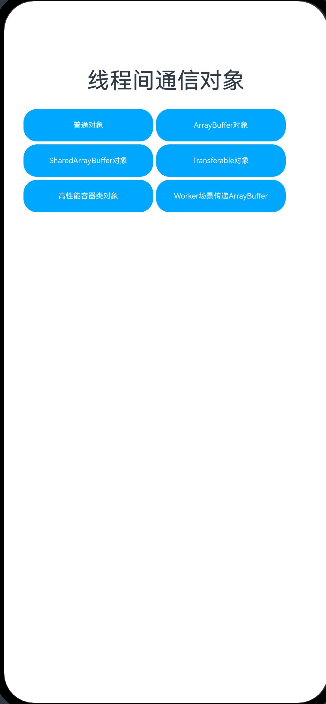
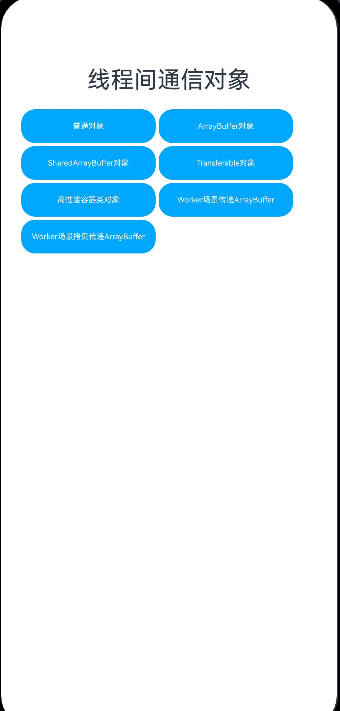
add case
AI[0%] Human Fixed[0%] Human[100%] AI Adopted[0%]

diff --git a/code/DocsSample/ArkTS/ArkTsConcurrent/ConcurrentThreadCommunication/CommunicationObjects/README.md b/code/DocsSample/ArkTS/ArkTsConcurrent/ConcurrentThreadCommunication/CommunicationObjects/README.md
@@ -51,25 +51,26 @@ entry/src/
  │   │   ├── entryability
  │   │   ├── entrybackupability
  │   │   ├── managers
- │   │       ├── ArrayBufferObject.ets       // ArrayBuffer对象示例代码
- │   │       ├── ContainerObject.ets         // 容器对象示例代码
- │   │       ├── NormalObject.ets            // 普通对象示例代码
- │   │       ├── pixelMapTest.ets            // Transferable对象示例代码
- │   │       ├── SharedArrayBufferObject.ets // SharedArrayBuffer对象示例代码
- │   │       ├── Test.ets					 // 普通对象示例代码
- │   │       ├── TransferabledObject.ets     // Transferable对象示例代码
- │   │       ├── WorkerSendArrayBuffer.ets   // Worker发送ArrayBuffer示例代码
+ │   │       ├── ArrayBufferObject.ets               // ArrayBuffer对象示例代码
+ │   │       ├── ContainerObject.ets                 // 容器对象示例代码
+ │   │       ├── NormalObject.ets                    // 普通对象示例代码
+ │   │       ├── pixelMapTest.ets                    // Transferable对象示例代码
+ │   │       ├── SharedArrayBufferObject.ets         // SharedArrayBuffer对象示例代码
+ │   │       ├── Test.ets					         // 普通对象示例代码
+ │   │       ├── TransferabledObject.ets             // Transferable对象示例代码
+ │   │       ├── WorkerSendArrayBuffer.ets           // Worker发送ArrayBuffer示例代码
+ │   │       ├── WorkerSendArrayBufferWithCopy.ets   // Worker拷贝发送ArrayBuffer示例代码
  │   │   ├── pages
- │   │       ├── Index.ets                   // 首页
+ │   │       ├── Index.ets                           // 首页
  │   │   ├── util
- │   │       ├── CommonButton.ets 		     // 首页跳转UI
- │   │       ├── resource.ets 		         // 资源引用转换
+ │   │       ├── CommonButton.ets 		             // 首页跳转UI
+ │   │       ├── resource.ets 		                 // 资源引用转换
  │   ├── module.json5
  │   └── resources
  ├── ohosTest
  │   ├── ets
  │   │   ├── test
- │   │       ├── Ability.test.ets            // 自动化测试代码
+ │   │       ├── Ability.test.ets                    // 自动化测试代码
 ```
 
 ### 相关权限
